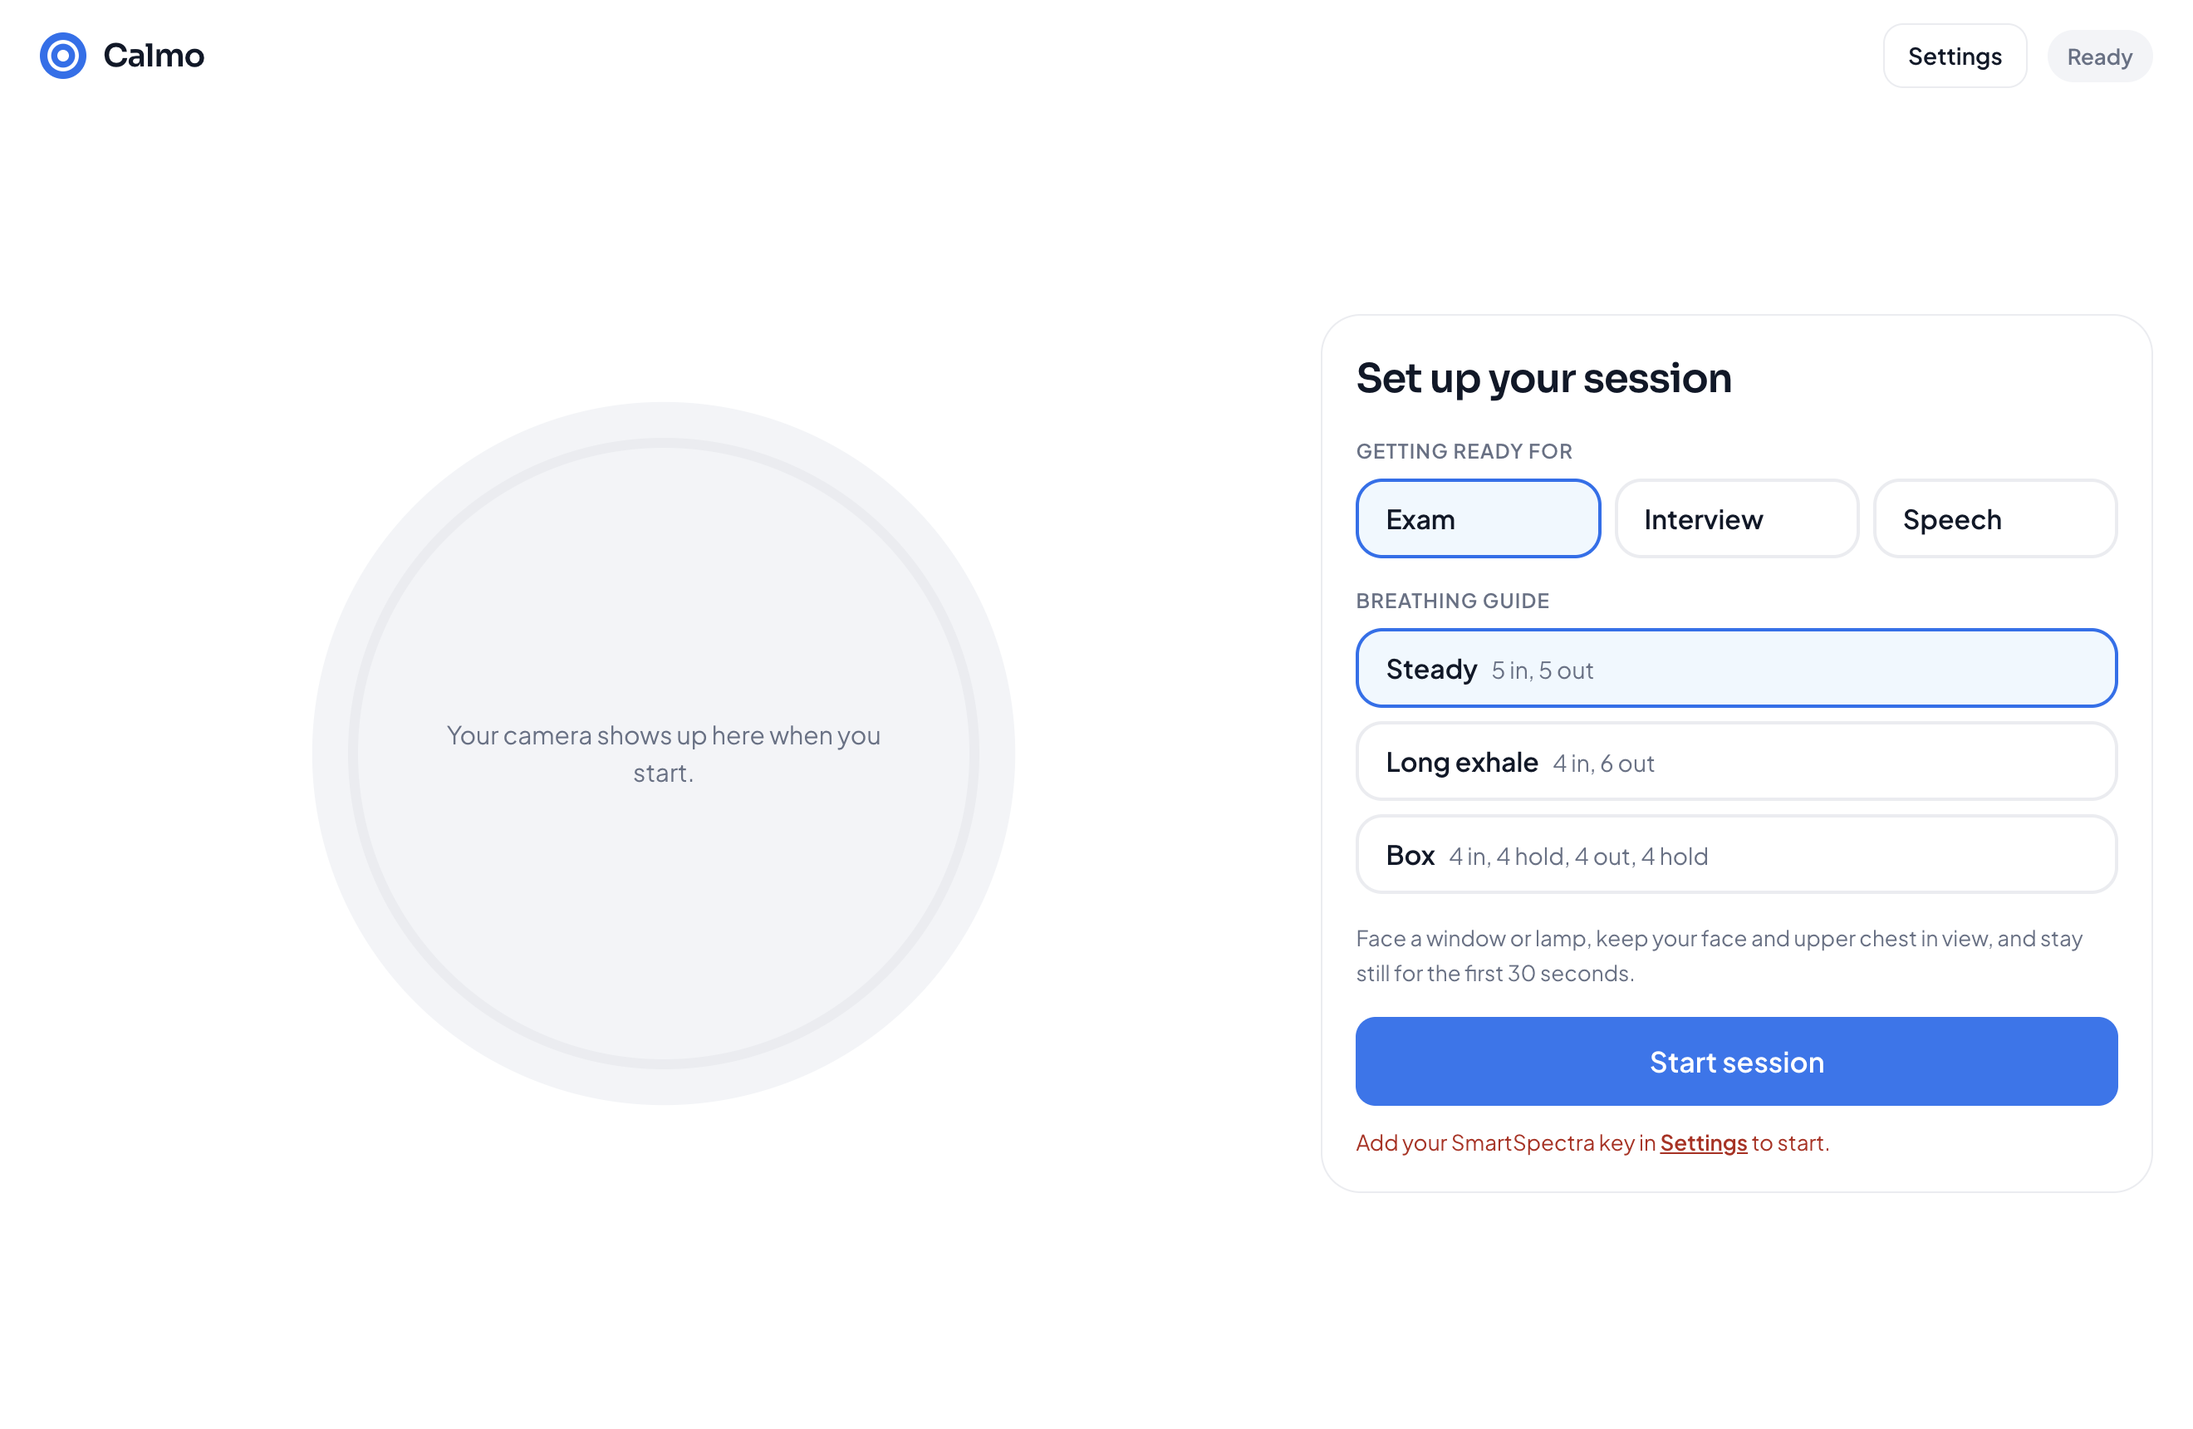
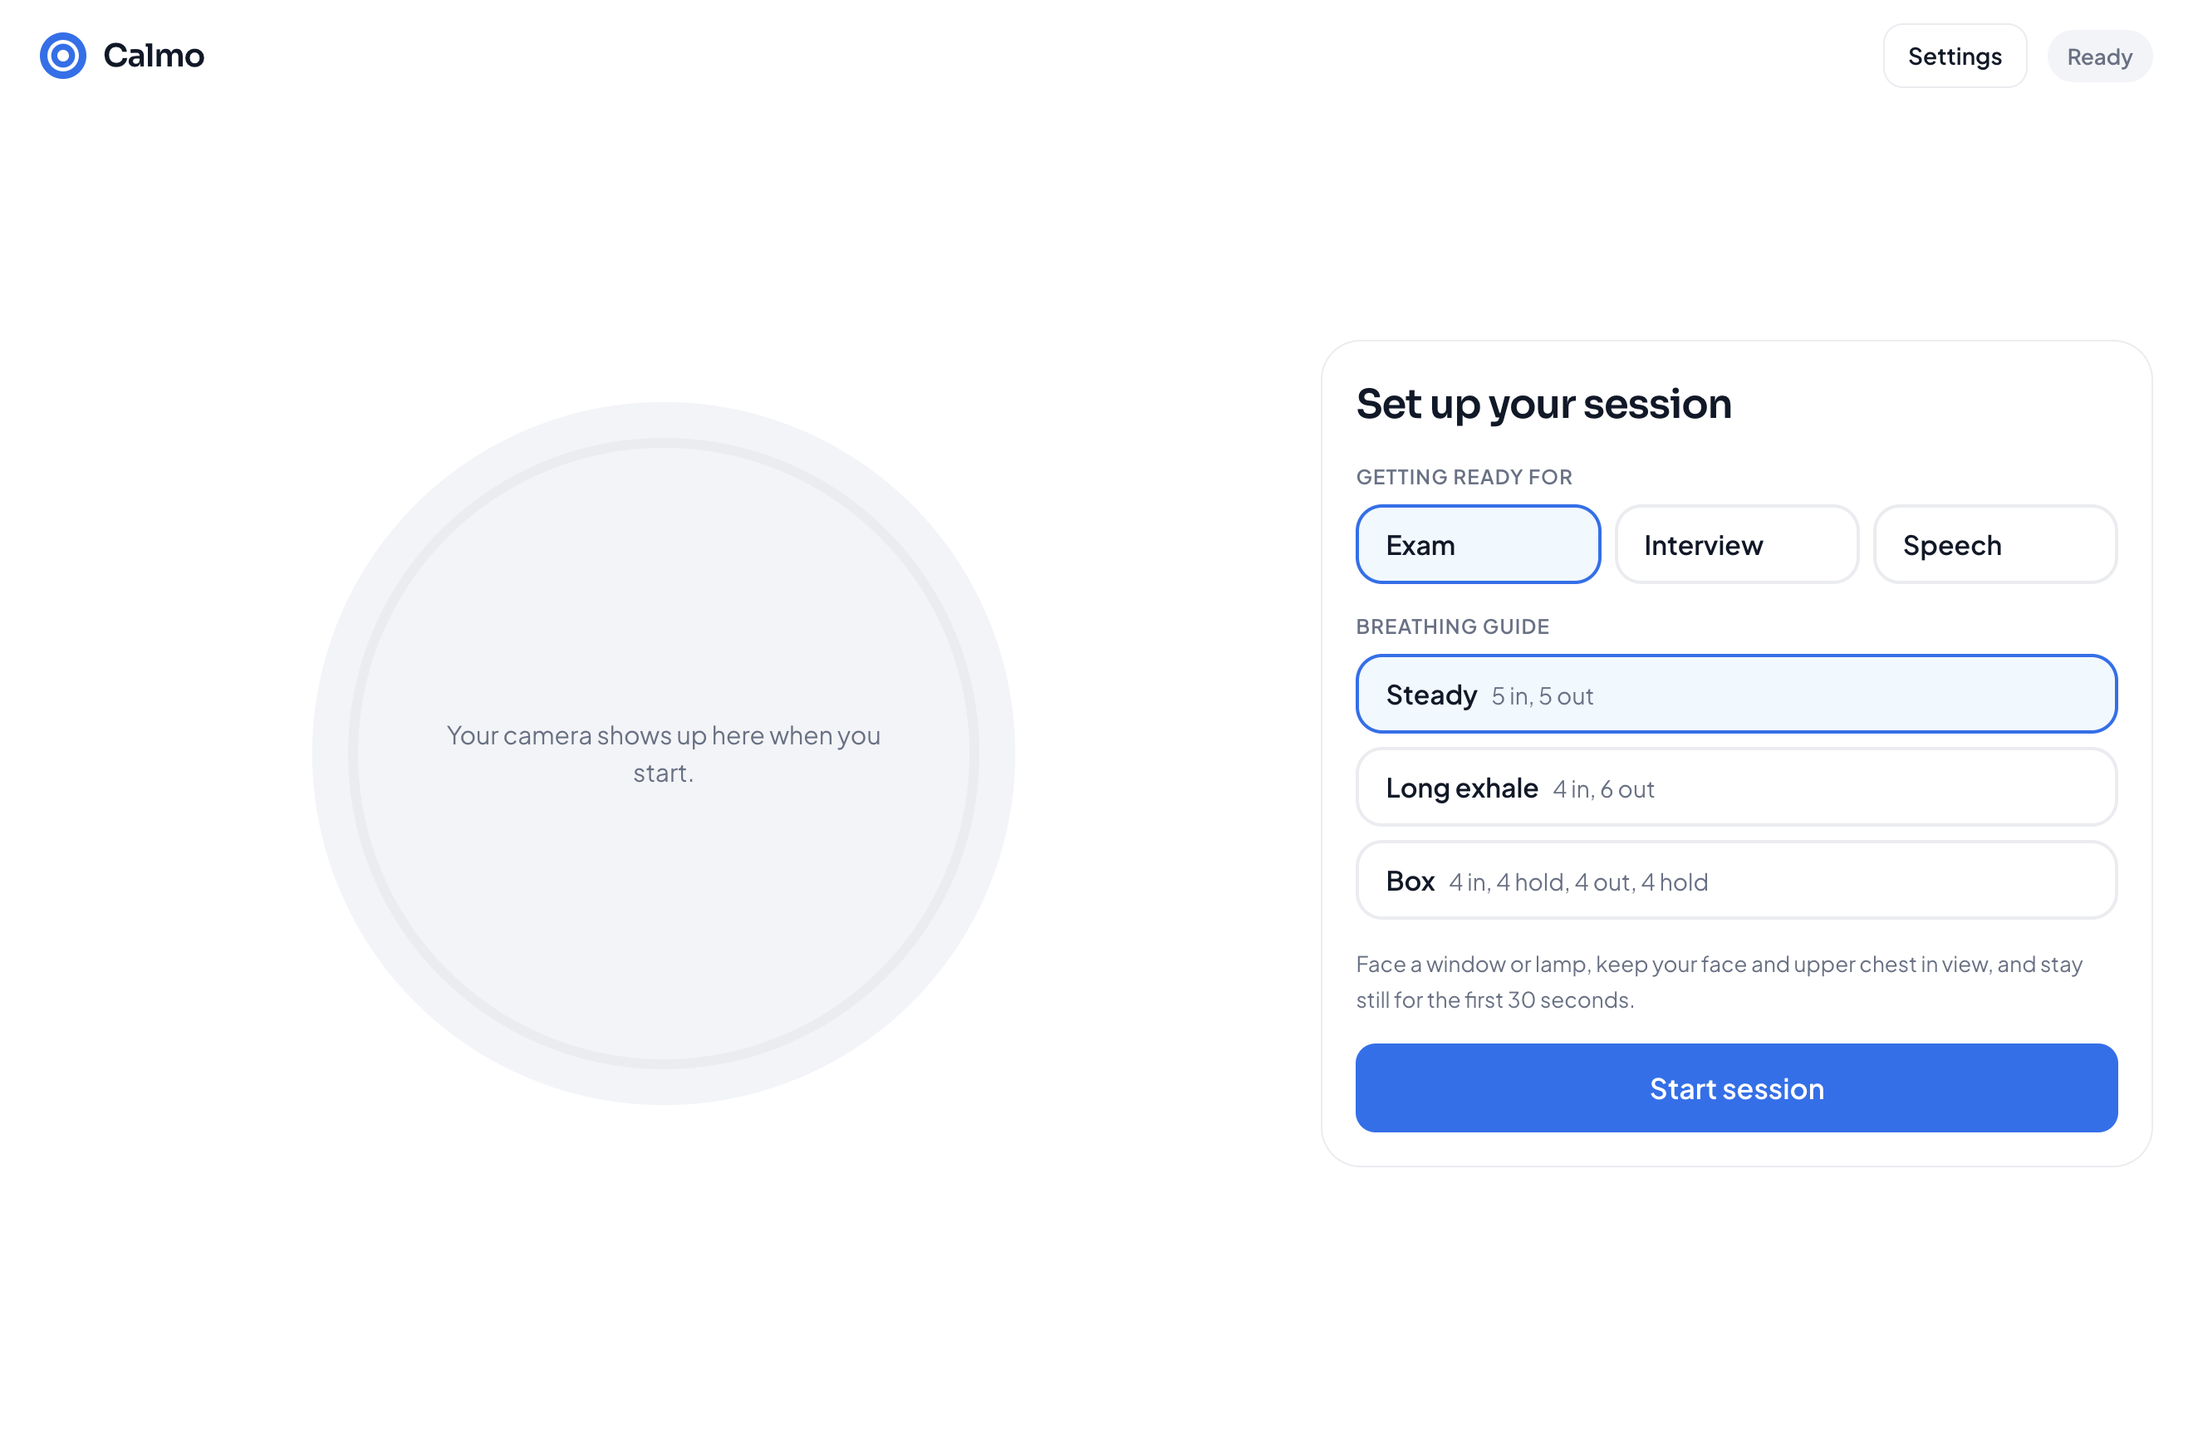
Lead-in 1 2 3 before each breath, keys persist across restarts, real model list

diff --git a/electron/keys.ts b/electron/keys.ts
@@ -1,5 +1,5 @@
 import { app, safeStorage } from 'electron'
-import { existsSync, readFileSync, writeFileSync } from 'node:fs'
+import { chmodSync, existsSync, readFileSync, writeFileSync } from 'node:fs'
 import path from 'node:path'
 import { parseEnv } from 'node:util'
 import type { KeyUpdate } from '../src/lib/coach-types'
@@ -10,7 +10,15 @@ interface StoredKeys {
   model: string
 }
 
+interface KeyFile {
+  v?: number
+  smartspectra?: string
+  serv?: string
+  model?: string
+}
+
 const DEFAULT_MODEL = 'gpt-5.4-mini'
+const FORMAT = 2
 
 const keysFile = () => path.join(app.getPath('userData'), 'keys.json')
 
@@ -26,7 +34,7 @@ function devEnv(): Partial<StoredKeys> {
   }
 }
 
-function decrypt(value: unknown): string {
+function legacyDecrypt(value: unknown): string {
   if (typeof value !== 'string' || !value) return ''
   try {
     return safeStorage.decryptString(Buffer.from(value, 'base64'))
@@ -35,39 +43,43 @@ function decrypt(value: unknown): string {
   }
 }
 
-function encrypt(value: string): string {
-  return value ? safeStorage.encryptString(value).toString('base64') : ''
+function writeFile(data: KeyFile): void {
+  writeFileSync(keysFile(), JSON.stringify({ ...data, v: FORMAT }), { mode: 0o600 })
+  chmodSync(keysFile(), 0o600)
+}
+
+function loadFile(): KeyFile {
+  if (!existsSync(keysFile())) return {}
+  let raw: KeyFile
+  try {
+    raw = JSON.parse(readFileSync(keysFile(), 'utf8')) as KeyFile
+  } catch {
+    return {}
+  }
+  if (raw.v === FORMAT) return raw
+  const migrated: KeyFile = {
+    smartspectra: legacyDecrypt(raw.smartspectra),
+    serv: legacyDecrypt(raw.serv),
+    model: typeof raw.model === 'string' ? raw.model : undefined,
+  }
+  if (migrated.smartspectra || migrated.serv) writeFile(migrated)
+  return migrated
 }
 
 export function readKeys(): StoredKeys {
-  let saved: Record<string, unknown> = {}
-  if (existsSync(keysFile())) {
-    try {
-      saved = JSON.parse(readFileSync(keysFile(), 'utf8')) as Record<string, unknown>
-    } catch {
-      saved = {}
-    }
-  }
+  const saved = loadFile()
   const env = devEnv()
   return {
-    smartspectra: decrypt(saved.smartspectra) || env.smartspectra || '',
-    serv: decrypt(saved.serv) || env.serv || '',
-    model: (typeof saved.model === 'string' && saved.model) || env.model || DEFAULT_MODEL,
+    smartspectra: saved.smartspectra || env.smartspectra || '',
+    serv: saved.serv || env.serv || '',
+    model: saved.model || env.model || DEFAULT_MODEL,
   }
 }
 
 export function saveKeys(update: KeyUpdate): void {
-  if (!safeStorage.isEncryptionAvailable()) throw new Error('Secure storage is not available on this Mac.')
-  let saved: Record<string, unknown> = {}
-  if (existsSync(keysFile())) {
-    try {
-      saved = JSON.parse(readFileSync(keysFile(), 'utf8')) as Record<string, unknown>
-    } catch {
-      saved = {}
-    }
-  }
-  if (update.smartspectra !== undefined) saved.smartspectra = encrypt(update.smartspectra.trim())
-  if (update.serv !== undefined) saved.serv = encrypt(update.serv.trim())
+  const saved = loadFile()
+  if (update.smartspectra !== undefined) saved.smartspectra = update.smartspectra.trim()
+  if (update.serv !== undefined) saved.serv = update.serv.trim()
   if (update.model !== undefined) saved.model = update.model.trim() || DEFAULT_MODEL
-  writeFileSync(keysFile(), JSON.stringify(saved), { mode: 0o600 })
+  writeFile(saved)
 }

diff --git a/src/hooks/usePacer.ts b/src/hooks/usePacer.ts
@@ -1,55 +1,58 @@
 import { useEffect, useRef, useState } from 'react'
 import type { Pace, PhaseKind } from '../lib/paces'
 
+export const LEAD_IN = 3
+
 export interface PacerState {
+  ready: boolean
   kind: PhaseKind
-  count: number
-  beat: number
-  duration: number
+  lead: number
 }
 
 const ease = (t: number) => (t < 0.5 ? 2 * t * t : 1 - Math.pow(-2 * t + 2, 2) / 2)
 
-export function usePacer(pace: Pace, active: boolean, onFrame: (level: number, progress: number) => void): PacerState {
-  const [state, setState] = useState<PacerState>({
-    kind: pace.phases[0][0],
-    count: pace.phases[0][1],
-    beat: 1,
-    duration: pace.phases[0][1],
-  })
+const leadFor = (remaining: number) => (remaining <= LEAD_IN ? Math.min(LEAD_IN, LEAD_IN + 1 - Math.ceil(remaining)) : 0)
+
+export function usePacer(pace: Pace, active: boolean, onFrame: (level: number) => void): PacerState {
+  const [state, setState] = useState<PacerState>({ ready: true, kind: pace.phases[0][0], lead: 1 })
   const frameRef = useRef(onFrame)
   frameRef.current = onFrame
 
   useEffect(() => {
     if (!active) return
     const reduced = window.matchMedia('(prefers-reduced-motion: reduce)').matches
-    const cycle = pace.phases.reduce((sum, [, d]) => sum + d, 0)
+    const phases = pace.phases
+    const cycle = phases.reduce((sum, [, d]) => sum + d, 0)
     const origin = performance.now()
     let frame = 0
-    let lastKind: PhaseKind | null = null
-    let lastCount = -1
-    const loop = (now: number) => {
-      let t = ((now - origin) / 1000) % cycle
-      let level = 0
-      let progress = 0
-      for (const [kind, dur] of pace.phases) {
-        if (t < dur) {
-          progress = t / dur
-          const p = ease(progress)
-          if (kind === 'in') level = p
-          else if (kind === 'out') level = 1 - p
-          const count = Math.ceil(dur - t)
-          if (kind !== lastKind || count !== lastCount) {
-            lastKind = kind
-            lastCount = count
-            setState({ kind, count, beat: Math.min(dur, Math.floor(t) + 1), duration: dur })
-          }
-          break
-        }
-        t -= dur
-        level = kind === 'in' ? 1 : kind === 'out' ? 0 : level
+    let last = ''
+    const publish = (next: PacerState) => {
+      const key = `${next.ready}|${next.kind}|${next.lead}`
+      if (key !== last) {
+        last = key
+        setState(next)
       }
-      frameRef.current(reduced ? 0.5 : level, progress)
+    }
+    const loop = (now: number) => {
+      const elapsed = (now - origin) / 1000
+      let level = 0
+      if (elapsed < LEAD_IN) {
+        publish({ ready: true, kind: phases[0][0], lead: leadFor(LEAD_IN - elapsed) })
+      } else {
+        let t = (elapsed - LEAD_IN) % cycle
+        for (const [kind, dur] of phases) {
+          if (t < dur) {
+            const p = ease(t / dur)
+            if (kind === 'in') level = p
+            else if (kind === 'out') level = 1 - p
+            publish({ ready: false, kind, lead: leadFor(dur - t) })
+            break
+          }
+          t -= dur
+          level = kind === 'in' ? 1 : kind === 'out' ? 0 : level
+        }
+      }
+      frameRef.current(reduced ? 0.5 : level)
       frame = requestAnimationFrame(loop)
     }
     frame = requestAnimationFrame(loop)

diff --git a/server/coach.ts b/server/coach.ts
@@ -33,19 +33,36 @@ function readingsNote(r: CoachReadings): string {
   return parts.join(' ')
 }
 
-export async function listModels(key: string): Promise<string[]> {
+export interface ModelOption {
+  id: string
+  name: string
+}
+
+export async function listModels(key: string): Promise<ModelOption[]> {
   if (!key) throw new Error('Add an OpenServ key to load the model list.')
   const res = await fetch('https://inference-api.openserv.ai/v1/models', {
     headers: { Authorization: `Bearer ${key}` },
     signal: AbortSignal.timeout(20000),
   })
   if (!res.ok) throw new Error(STATUS_HINTS[res.status] ?? `OpenServ returned ${res.status}.`)
-  const body = (await res.json()) as { data?: Array<{ id?: unknown; endpoints?: unknown }> }
-  const ids = (body.data ?? [])
-    .filter((m) => !Array.isArray(m.endpoints) || m.endpoints.some((e) => String(e).includes('chat/completions')))
-    .map((m) => m.id)
-    .filter((id): id is string => typeof id === 'string' && id.length > 0)
-  return [...new Set(ids)].sort()
+  const body = (await res.json()) as {
+    items?: Array<{ modelId?: unknown; displayName?: unknown; endpoints?: unknown }>
+    data?: Array<{ id?: unknown; endpoints?: unknown }>
+  }
+  const raw = [
+    ...(body.items ?? []).map((m) => ({ id: m.modelId, name: m.displayName, endpoints: m.endpoints })),
+    ...(body.data ?? []).map((m) => ({ id: m.id, name: m.id, endpoints: m.endpoints })),
+  ]
+  const seen = new Set<string>()
+  const models: ModelOption[] = []
+  for (const m of raw) {
+    if (typeof m.id !== 'string' || !m.id || seen.has(m.id)) continue
+    const chat = !Array.isArray(m.endpoints) || m.endpoints.some((e) => /chat/i.test(String(e)))
+    if (!chat) continue
+    seen.add(m.id)
+    models.push({ id: m.id, name: typeof m.name === 'string' && m.name ? m.name : m.id })
+  }
+  return models
 }
 
 export async function askCoach(key: string, model: string, data: AskRequest): Promise<string> {
@@ -62,7 +79,6 @@ export async function askCoach(key: string, model: string, data: AskRequest): Pr
         { role: 'user', content: data.message },
       ],
       max_completion_tokens: 600,
-      reasoning_effort: 'low',
     }),
     signal: AbortSignal.timeout(45000),
   })

diff --git a/src/components/CameraStage.tsx b/src/components/CameraStage.tsx
@@ -99,7 +99,7 @@ export function CameraStage({ videoRef, faceRef, pace, live, mood, hint }: Props
         <div
           ref={ringRef}
           className="absolute inset-0 rounded-full transition-colors duration-500"
-          style={{ background: live ? PHASE_RING[pacer.kind] : '#F2F4F7', transform: live ? 'scale(0.8)' : 'scale(0.92)' }}
+          style={{ background: live && !pacer.ready ? PHASE_RING[pacer.kind] : '#F2F4F7', transform: live ? 'scale(0.8)' : 'scale(0.92)' }}
         />
         <div
           className="absolute inset-[10%] overflow-hidden rounded-full bg-surface transition-colors duration-700"
@@ -130,27 +130,11 @@ export function CameraStage({ videoRef, faceRef, pace, live, mood, hint }: Props
       </div>
 
       {live && (
-        <div className="mt-4 w-full max-w-[360px]">
-          <div className="text-center">
-            <span className="font-display text-[30px] font-semibold" style={{ color: PHASE_BAR[pacer.kind] }}>
-              {PHASE_TEXT[pacer.kind]}
-            </span>
-          </div>
-          <div className="mt-2 flex items-center justify-center gap-3" aria-live="off">
-            {Array.from({ length: pacer.duration }, (_, i) => i + 1).map((n) => (
-              <span
-                key={n}
-                className="grid size-9 place-items-center rounded-full font-display text-[16px] font-semibold tabular-nums transition-colors duration-300"
-                style={
-                  n <= pacer.beat
-                    ? { background: PHASE_BAR[pacer.kind], color: '#FFFFFF' }
-                    : { background: '#F2F4F7', color: '#98A2B3' }
-                }
-              >
-                {n}
-              </span>
-            ))}
-          </div>
+        <div className="mt-5 flex items-baseline gap-3">
+          <span className="font-display text-[30px] font-semibold" style={{ color: pacer.ready ? '#101828' : PHASE_BAR[pacer.kind] }}>
+            {pacer.ready ? 'Get ready' : PHASE_TEXT[pacer.kind]}
+          </span>
+          <span className="w-6 font-display text-[30px] font-semibold tabular-nums text-muted">{pacer.lead || ''}</span>
         </div>
       )}
       {live && hint && (

diff --git a/src/routes/settings.tsx b/src/routes/settings.tsx
@@ -41,7 +41,7 @@ function ModelPicker() {
   })
   const current = config.data?.model ?? 'gpt-5.4-mini'
   const list = models.data?.ok ? models.data.models : []
-  const options = list.includes(current) ? list : [current, ...list]
+  const options = list.some((m) => m.id === current) ? list : [{ id: current, name: current }, ...list]
   const problem = !config.data?.coachReady
     ? 'Add an OpenServ key to load the model list.'
     : models.data && !models.data.ok
@@ -62,8 +62,8 @@ function ModelPicker() {
           className="mt-2 w-full cursor-pointer appearance-none rounded-xl border border-line bg-white px-3.5 py-3 text-[15px] text-ink outline-none focus:border-brand disabled:cursor-default disabled:bg-surface"
         >
           {options.map((m) => (
-            <option key={m} value={m}>
-              {m}
+            <option key={m.id} value={m.id}>
+              {m.name === m.id ? m.id : `${m.name} (${m.id})`}
             </option>
           ))}
         </select>
@@ -141,7 +141,7 @@ function Settings() {
         {desktop ? (
           <form onSubmit={onSubmit} className="mt-8 flex flex-col gap-6 rounded-3xl border border-line p-6">
             <p className="text-[14px] leading-relaxed text-muted">
-              Keys are encrypted with your Mac login keychain and stored only on this Mac. Leave a field empty to keep the saved value.
+              Keys are saved only on this Mac, in Calmo's app data folder, readable only by your user account. Leave a field empty to keep the saved value.
             </p>
             <label className="block">
               <span className="font-semibold text-ink">SmartSpectra API key</span>

diff --git a/src/routes/welcome.tsx b/src/routes/welcome.tsx
@@ -67,8 +67,8 @@ function CalmArt() {
       <div ref={ringRef} className="absolute inset-0 rounded-full bg-green-tint" style={{ transform: 'scale(0.5)' }} />
       <div className="relative grid aspect-square w-[46%] place-items-center rounded-full bg-green">
         <span className="text-center font-display text-white">
-          <span className="block text-[18px] font-semibold">{PHASE_TEXT[pacer.kind]}</span>
-          <span className="mt-1 block text-[26px] font-semibold tabular-nums">{pacer.beat}</span>
+          <span className="block text-[18px] font-semibold">{pacer.ready ? 'Get ready' : PHASE_TEXT[pacer.kind]}</span>
+          <span className="mt-1 block h-8 text-[26px] font-semibold tabular-nums">{pacer.lead || ''}</span>
         </span>
       </div>
     </div>

diff --git a/src/lib/coach-types.ts b/src/lib/coach-types.ts
@@ -51,4 +51,4 @@ export interface CalmoBridge {
   models(): Promise<ModelList>
 }
 
-export type ModelList = { ok: true; models: string[] } | { ok: false; error: string }
+export type ModelList = { ok: true; models: Array<{ id: string; name: string }> } | { ok: false; error: string }

diff --git a/SUBMISSION.md b/SUBMISSION.md
@@ -89,7 +89,7 @@ Designed for that moment:
 **What is stored**
 
 - Calmo saves no video, no vitals and no session history. Readings, chat and summary live in memory and are gone when you start a new session or close the window.
-- API keys: on the Mac they are encrypted with macOS `safeStorage` (backed by your login keychain) in Calmo's app data folder. In the web version they live in a local `.env` file that git ignores.
+- API keys: on the Mac they are saved in a file in Calmo's app data folder that only your user account can read. In the web version they live in a local `.env` file that git ignores. Keys are never sent anywhere except to the service they belong to.
 
 **SDK network use and telemetry**
 

diff --git a/README.md b/README.md
@@ -35,7 +35,7 @@ Open **Settings**, paste your keys, then start a session:
 - SmartSpectra key (required): https://physiology.presagetech.com
 - OpenServ key (optional, turns on the coach): https://console.openserv.ai/settings/keys
 
-Keys are encrypted with your Mac login keychain.
+Keys stay on your Mac, in a file only your user account can read.
 
 ## Web app (local)
 
